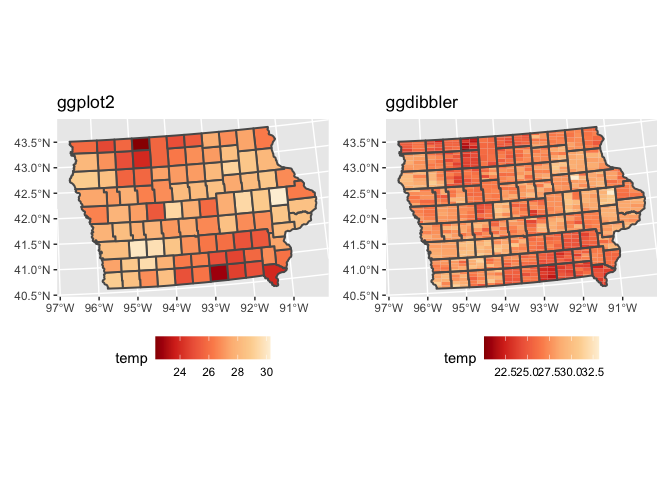
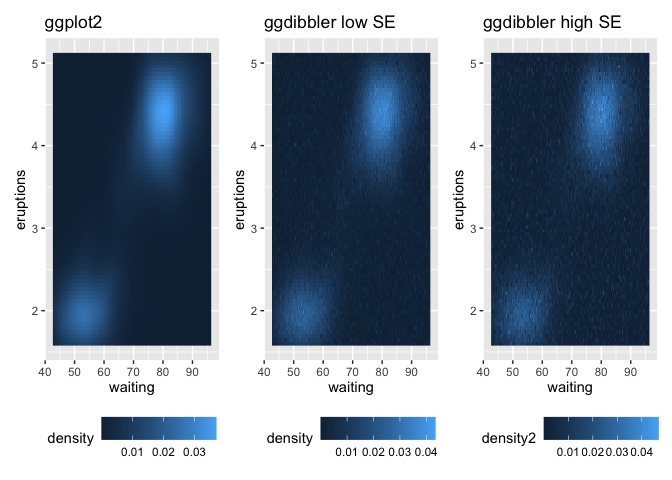
updated readme and included Vizumap link (sorry Lydia, I thought it was already there)

diff --git a/README.md b/README.md
@@ -52,11 +52,15 @@ replace the `geom_*` with `geom_*_sample` and replace your deterministic
 variable with a `distributional` variable, and you get an uncertainty
 visualisation.
 
-Uncertainty visualisation, under this approach, is seen as a function of
-an existing plot. Below are some examples of `ggplot2` code alongside
-its uncertain `ggdibbler` counterpart. The only parameter added by
-`ggdibbler` is the `times` argument, which decides how many samples to
-draw from the distribution.
+You will often run into an overplotting problem when visualising
+uncertainty, so using a jitter or adjustment to the alpha value will
+allow you to see all outcomes of the distribution. Otherwise you will
+only see the draw.
+
+Below are some examples of `ggplot2` code alongside its uncertain
+`ggdibbler` counterpart. The only parameter added by `ggdibbler` is the
+`times` argument, which decides how many samples to draw from the
+distribution.
 
 ``` r
 library(distributional)
@@ -80,6 +84,40 @@ p1 + p2
 ```
 
 <img src="man/figures/README-unnamed-chunk-3-1.png" width="100%" />
+
+Overlapping positions in other geom can be fixed with standard position
+adjustments, such as `position = "identity_dodge"` where the position of
+the original plot is an `identity`, and the position adjustment specific
+to the draws is a `dodge`.
+
+``` r
+
+p1 <- ggplot(faithfuld, aes(waiting, eruptions)) + 
+  geom_raster(aes(fill = density)) +
+  ggtitle("ggplot2")+
+  theme(legend.position = "bottom")
+
+p2 <- ggplot(uncertain_faithfuld, aes(waiting, eruptions)) + 
+  geom_raster_sample(aes(fill = density)) +
+  ggtitle("ggdibbler low SE")+
+  theme(legend.position = "bottom")
+
+p3 <- ggplot(uncertain_faithfuld, aes(waiting, eruptions)) + 
+  geom_raster_sample(aes(fill = density2)) +
+  ggtitle("ggdibbler high SE")+
+  theme(legend.position = "bottom")
+
+p1  + p2 + p3
+```
+
+<img src="man/figures/README-unnamed-chunk-4-1.png" width="100%" />
+
+The only geoms that implement new positioning (i.e. not nested versions
+of existing ggplot2 positions) are `geom_sf_sample`, and
+`geom_pollygon_sample`. These geometries use the `subdivide` position to
+fix the over plotting problem. This position adjustment replicates the
+pixel map implemented in
+[Vizumap](https://github.com/lydialucchesi/Vizumap).
 
 ``` r
 # Make average summary of data
@@ -108,62 +146,7 @@ p2 <- toy_temp_dist |>
 p1+p2
 ```
 
-<img src="man/figures/README-unnamed-chunk-4-1.png" width="100%" />
-
-If you pass random variables to aesthetics like colour or label, but not
-position aesthetics such as x or y, you might want to add a jitter or
-adjust the alpha value so that you can see all outcomes of the
-distribution. Otherwise you will only see the final layer.
-
-``` r
-point_data <- data.frame(x = c(1,2,3),
-                         y = c(2,5,7),
-                         certain_class = c("A", "B", "C"),
-                         uncertain_class = dist_categorical(prob = list(c(0.8,0.15,0.05),
-                                                                      c(0.25,0.7,0.05),
-                                                                      c(0.25,0,0.75)),
-                                                          outcomes = list(c("A", "B", "C"))))
-p1 <- ggplot(data = point_data, aes(x,y)) + 
-  geom_point(aes(colour = certain_class), size=5)+
-  ggtitle("ggplot2")+
-  theme(legend.position = "bottom")
-  
-p2 <- ggplot(data = point_data, aes(x,y)) + 
-  geom_point_sample(aes(colour = uncertain_class), size=1, times=30,
-                    position = position_jitter(width=0.1, height=0.2))+
-  ggtitle("ggdibbler")+
-  theme(legend.position = "bottom")
-
-p1 + p2
-```
-
 <img src="man/figures/README-unnamed-chunk-5-1.png" width="100%" />
-
-Finally, lets see a case where the uncertainty (standard error in this
-example) actually is high enough to change the conclusions we take from
-the visualisation.
-
-``` r
-
-p1 <- ggplot(faithfuld, aes(waiting, eruptions)) + 
-  geom_raster(aes(fill = density)) +
-  ggtitle("ggplot2")+
-  theme(legend.position = "bottom")
-
-p2 <- ggplot(uncertain_faithfuld, aes(waiting, eruptions)) + 
-  geom_raster_sample(aes(fill = density)) +
-  ggtitle("ggdibbler low SE")+
-  theme(legend.position = "bottom")
-
-p3 <- ggplot(uncertain_faithfuld, aes(waiting, eruptions)) + 
-  geom_raster_sample(aes(fill = density2)) +
-  ggtitle("ggdibbler high SE")+
-  theme(legend.position = "bottom")
-
-p1  + p2 + p3
-```
-
-<img src="man/figures/README-unnamed-chunk-6-1.png" width="100%" />
 
 ## Limitations
 
